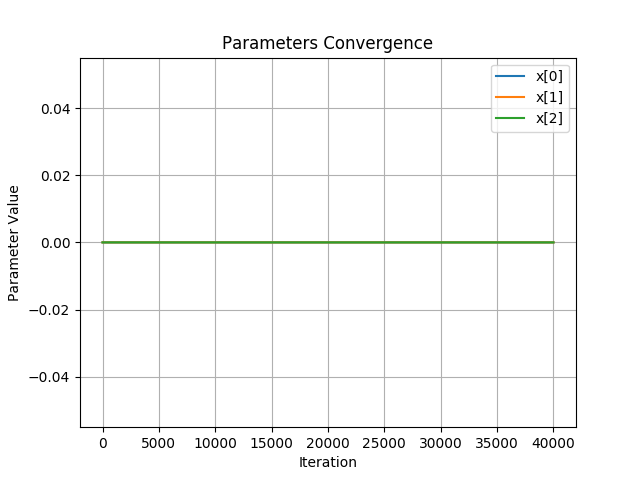
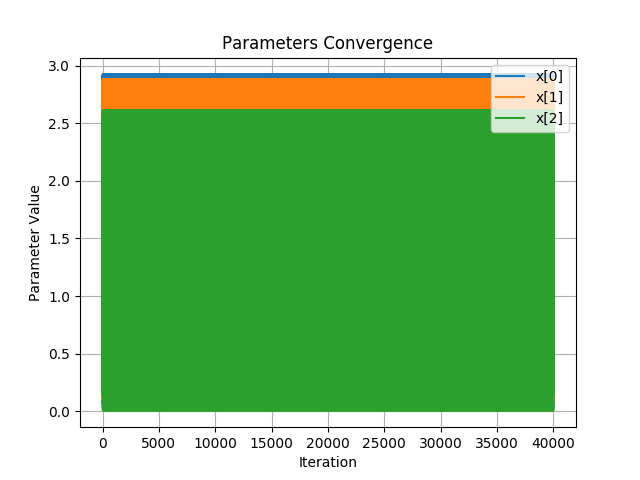
maybe finishing get_position_to_evaluate

diff --git a/lab4/particle_swarm_optimization.py b/lab4/particle_swarm_optimization.py
@@ -55,6 +55,8 @@ class ParticleSwarmOptimization:
 
         self.global_best_position = self.particles[0].position
 
+        self.count_particles_evaluated = 0
+
     def get_best_position(self):
         """
         Obtains the best position so far found by the algorithm.
@@ -83,7 +85,13 @@ class ParticleSwarmOptimization:
         :rtype: numpy array.
         """
         # Todo: implement
-        return self.lower_bound  # Remove this line
+        position_to_evaluate = self.particles[self.count_particles_evaluated].position
+
+        self.count_particles_evaluated = self.count_particles_evaluated + 1
+        if self.count_particles_evaluated == self.hyperparams.num_particles:
+            self.count_particles_evaluated = 0
+
+        return position_to_evaluate
 
     def advance_generation(self):
         """
